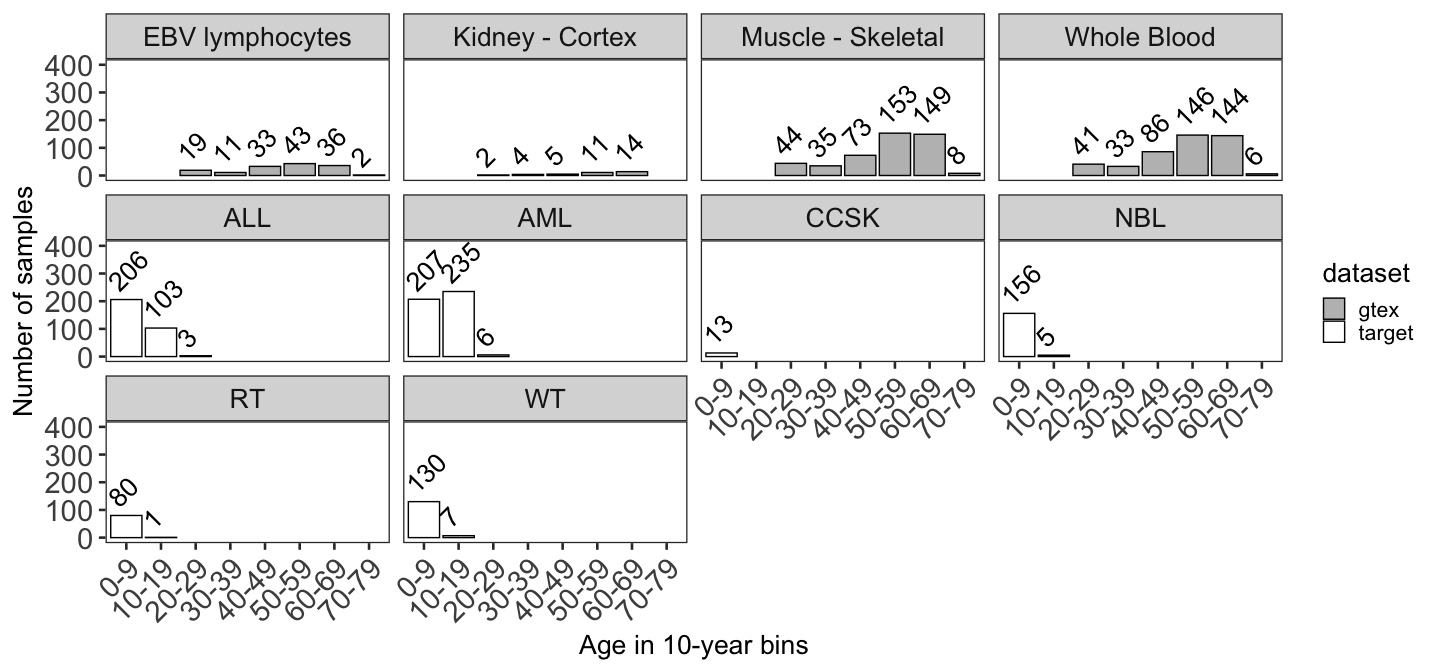
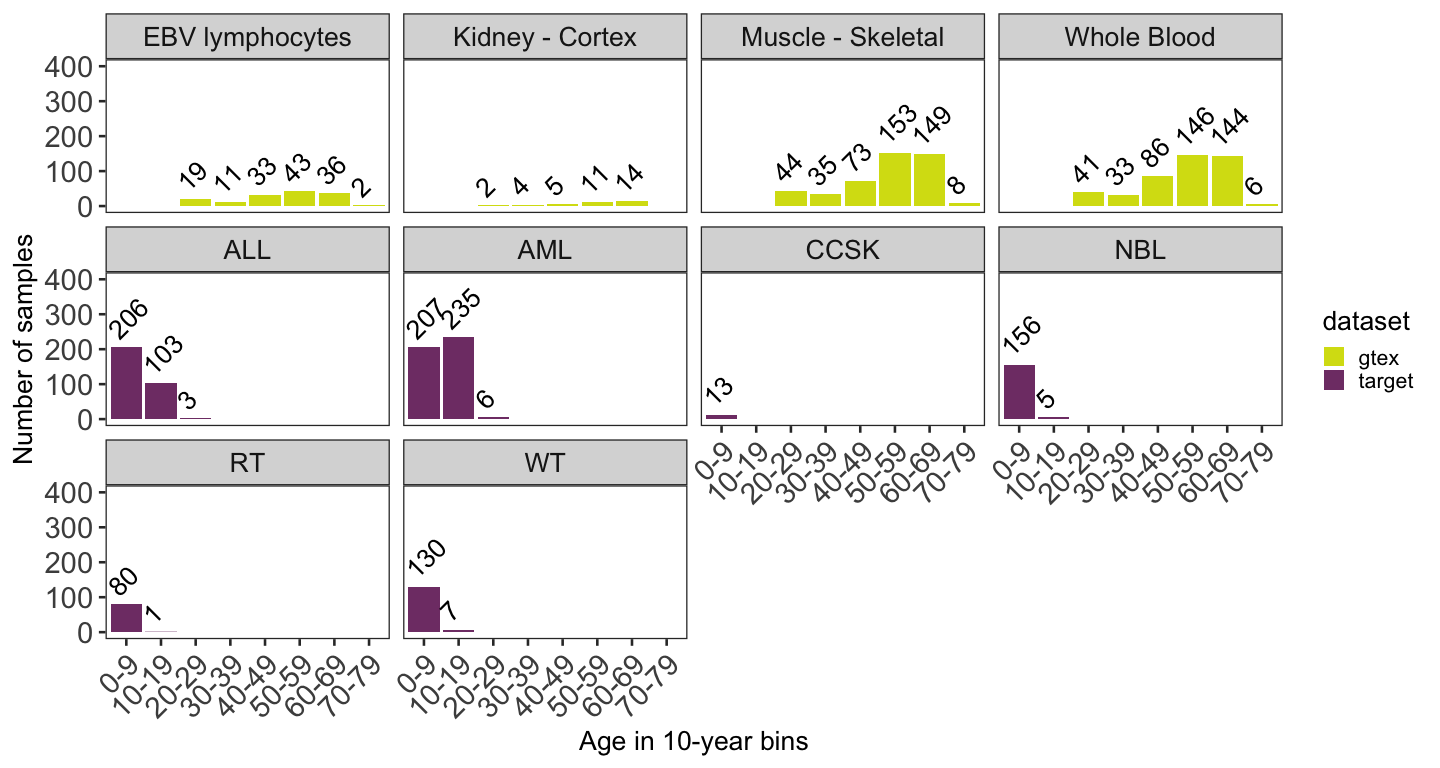
update figures and markdown

Changed region(s): [[0.0, 0.125, 0.9062, 1.0], [0.0312, 0.0, 0.9062, 0.2188], [0.9062, 0.375, 1.0, 0.5312]]

diff --git a/notebooks/compendium_summary/compendium_v1_summary.md b/notebooks/compendium_summary/compendium_v1_summary.md
@@ -1,6 +1,6 @@
 # Summary of samples on splice compendium v1
 Cindy Liang (celiang@ucsc.edu)
-2026-08-16
+2026-08-17
 
 ## Introduction
 
@@ -692,8 +692,40 @@ multiple versions.
 ### TARGET sample distribution plot
 
 ``` r
-# make bar plot of target sample distribution
-ggplot(cleaned_target_df, aes(y = plot_tissue_type, fill = plot_tissue_type)) +
+# make bar plot of gtex sample distribution
+gtex_sample_dist_plot <- ggplot(
+  for_summary_gtex_df, 
+  aes(y = plot_tissue_type, fill = dataset)
+  ) +
+  geom_bar() +
+  # add N observations to bars
+  geom_text(
+    # count number of observations in each tissue type
+    stat = "count",
+    aes(label = paste0(after_stat(count))), 
+    hjust = -0.1,
+    vjust = 0.5,
+    size = global_size - 14
+  ) +
+  labs(
+    x = "Number of samples",
+    y = ""
+  ) +
+  # manually add to ylim so that there is space for over-bar labels
+  xlim(0, 500) +
+  plot_theme +
+  scale_fill_manual(values = dataset_palette) +
+  # set legend position and panel size
+  theme(legend.position = "bottom",
+        panel.widths = unit(10, "cm"),
+        panel.heights = unit(5, "cm")
+  )
+
+# target sample dist plot
+target_sample_dist_plot <- ggplot(
+  cleaned_target_df, 
+  aes(y = plot_tissue_type, fill = dataset)
+  ) +
   geom_bar() +
   # add N observations to bars
   geom_text(
@@ -711,12 +743,16 @@ ggplot(cleaned_target_df, aes(y = plot_tissue_type, fill = plot_tissue_type)) +
   # manually add to ylim so that there is space for over-bar labels
   xlim(0, 500) +
   plot_theme +
-  scale_fill_manual(values = tissue_palette) +
+  scale_fill_manual(values = dataset_palette) +
+  # set legend position and panel size
   theme(
-    legend.position = "none",
+    legend.position = "bottom",
     panel.widths = unit(10, "cm"),
     panel.heights = unit(5, "cm")
     )
+
+# plot plots together
+gtex_sample_dist_plot + target_sample_dist_plot
 ```
 
 <div id="fig-target_sample_dist_bar">
@@ -731,50 +767,12 @@ Figure 1
 
 ### GTEx sample distribution plot
 
-``` r
-# make bar plot of gtex sample distribution
-ggplot(for_summary_gtex_df, aes(y = plot_tissue_type, fill = plot_tissue_type)) +
-  geom_bar() +
-  # add N observations to bars
-  geom_text(
-    # count number of observations in each tissue type
-    stat = "count",
-    aes(label = paste0(after_stat(count))), 
-    hjust = -0.1,
-    vjust = 0.5,
-    size = global_size - 14
-  ) +
-  labs(
-    x = "Number of samples",
-    y = ""
-    ) +
-  # manually add to ylim so that there is space for over-bar labels
-  xlim(0, 500) +
-  plot_theme +
-  scale_fill_manual(values = tissue_palette) +
-  # remove legend
-  theme(legend.position = "none",
-        panel.widths = unit(10, "cm"),
-        panel.heights = unit(5, "cm")
-        )
-```
-
-<div id="fig-gtex_sample_dist_bar">
-
-<img
-src="compendium_v1_summary_files/figure-commonmark/fig-gtex_sample_dist_bar-1.png"
-id="fig-gtex_sample_dist_bar" />
-
-Figure 2
-
-</div>
-
 ### Compendium age distribution plot
 
 ``` r
 # make bar plot of target sample distribution
 ggplot(for_summary_compendium_df, aes(x = age_in_years, fill = dataset)) +
-  geom_bar(color = "black", linewidth = 0.5) +
+  geom_bar() +
   # add N observations to bars
   geom_text(
     # count number of observations in each tissue type
@@ -817,7 +815,7 @@ ggplot(for_summary_compendium_df, aes(x = age_in_years, fill = dataset)) +
 src="compendium_v1_summary_files/figure-commonmark/fig-age_dist_bar-1.png"
 id="fig-age_dist_bar" />
 
-Figure 3
+Figure 2
 
 </div>
 
@@ -866,7 +864,7 @@ ggplot(for_summary_compendium_df, aes(y = plot_tissue_type, fill = sex)) +
 src="compendium_v1_summary_files/figure-commonmark/fig-sex_dist_tacked_bar-1.png"
 id="fig-sex_dist_tacked_bar" />
 
-Figure 4
+Figure 3
 
 </div>
 
